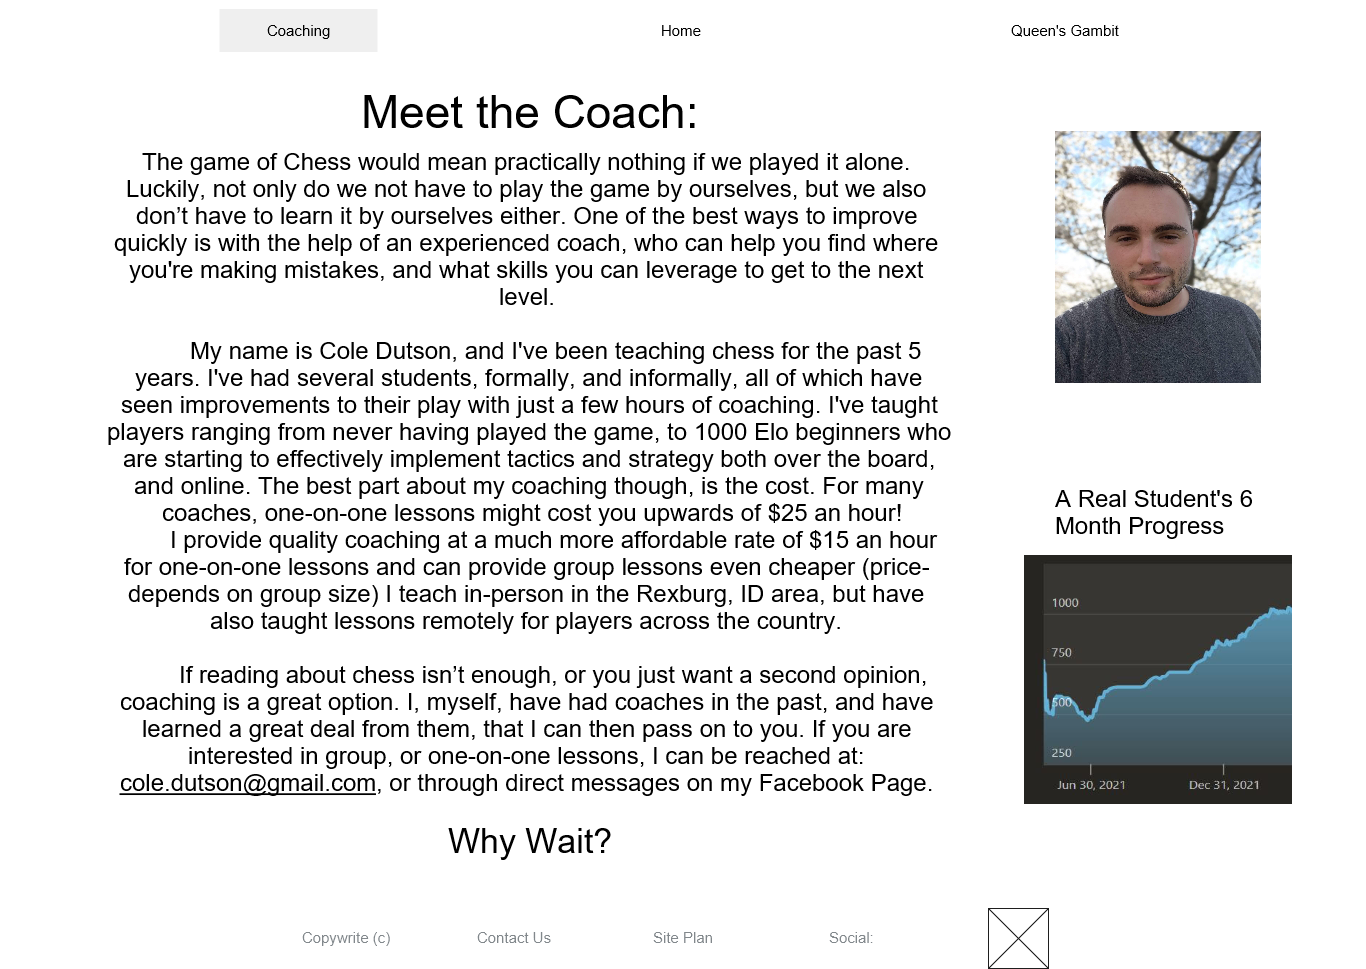
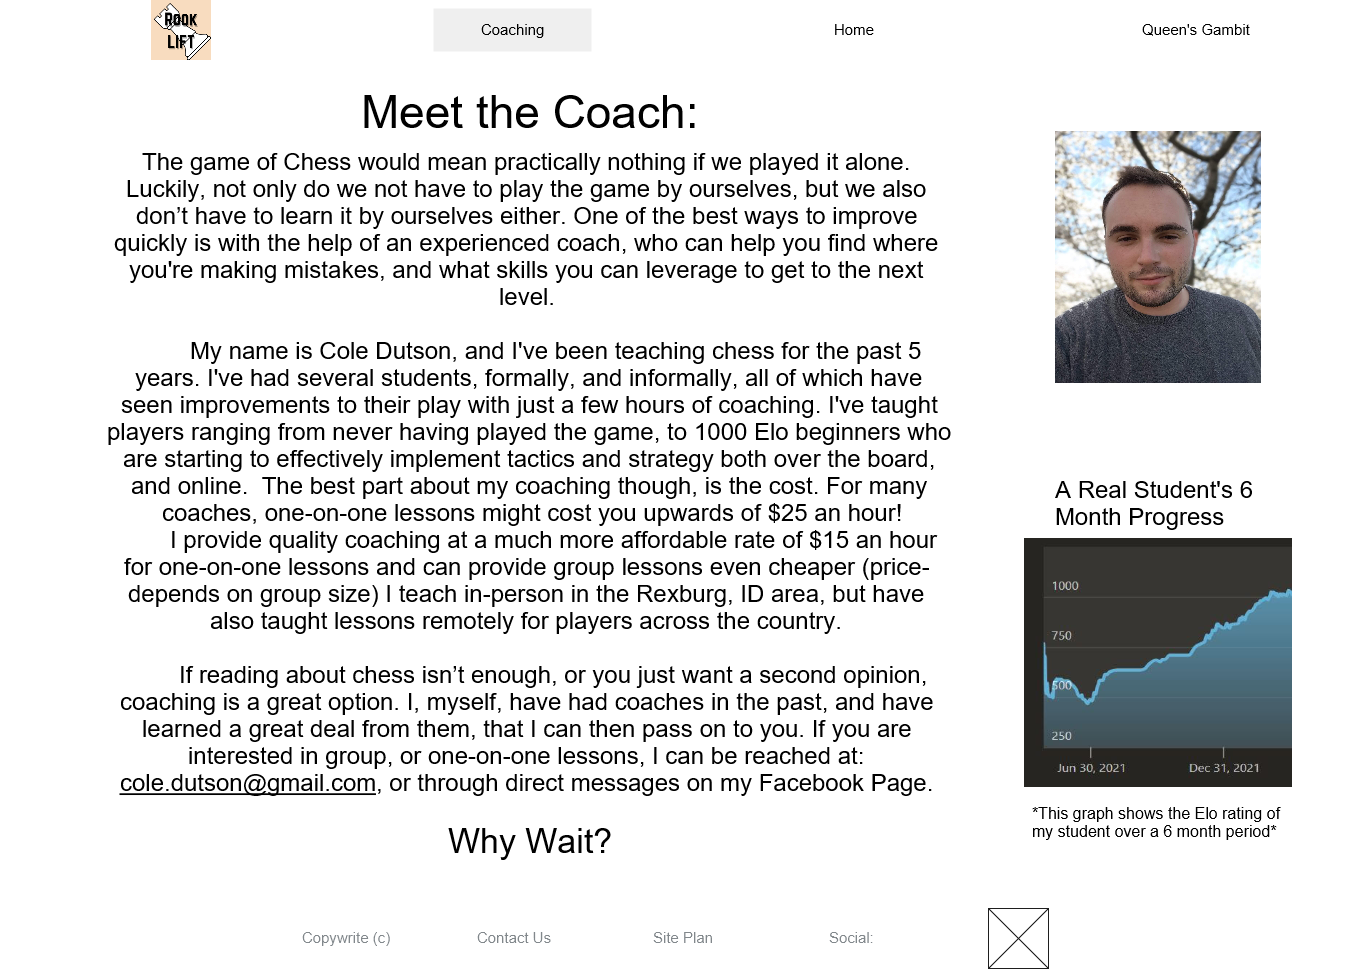
updated footer, header, and wireframe

diff --git a/rooklift/styles/styles.css b/rooklift/styles/styles.css
@@ -189,59 +189,73 @@ main{
     font-size: .75em;
     margin-top: 50px;
 }
-.navlinks-coaching {
-    grid-column: 1/4;
+.coach-logo .logo{
+    height: 60px;
+    width: 60px;
     grid-row: 1/2;
+    margin-top: 5px;
+}
+.navlinks-coaching {
     z-index: 0;
     width: 100%;
     display: grid;
-    grid-template-columns: 1fr 1fr 1fr;
+    grid-template-columns: 1fr 1fr 1fr 1fr;
     background-color: #ffffffb1;
     opacity: .75;
     color: #1d162c;
-
 }
 .navlinks-coaching a:nth-of-type(1){
-    grid-column: 1/2;
+    grid-column: 2/3;
+    grid-row: 1/2;
     margin: 20px 20px;
 }
 .navlinks-coaching a:nth-of-type(2){
-    grid-column: 2/3;
+    grid-column: 3/4;
+    grid-row: 1/2;
     margin: 20px 20px;
     color: black;
 }
 .navlinks-coaching a:nth-of-type(3){
-    grid-column: 3/4;
+    grid-column: 4/5;
+    grid-row: 1/2;
     margin: 20px 20px;
 }
  /*CSS for Page 3 (Queen's Gambit*/
 .qg-main{
     text-align: center;
 }
+
 .navlinks-qg {
-    grid-column: 1/4;
-    grid-row: 1/2;
     z-index: 0;
     width: 100%;
     display: grid;
-    grid-template-columns: 1fr 1fr 1fr;
+    grid-template-columns: 1fr 1fr 1fr 1fr;
     background-color: #ffffffb1;
     opacity: .75;
     color: #1d162c;
-
+}
+.qg-logo .logo{
+    height: 60px;
+    width: 60px;
+    grid-row: 1/2;
+    margin-top: 5px;
 }
 .navlinks-qg a:nth-of-type(1){
-    grid-column: 1/2;
+    grid-column: 2/3;
+    grid-row: 1/2;
     margin: 20px 20px;
 }
 .navlinks-qg a:nth-of-type(2){
-    grid-column: 2/3;
+    grid-column: 3/4;
+    grid-row: 1/2;
     margin: 20px 20px;
 }
 .navlinks-qg a:nth-of-type(3){
-    grid-column: 3/4;
+    grid-column: 4/5;
+    grid-row: 1/2;
     margin: 20px 20px;
     color: black;
+    text-wrap: nowrap;
 }
 .lesson-box{
     display: grid;

diff --git a/rooklift/coaching.html b/rooklift/coaching.html
@@ -10,9 +10,13 @@
 <body>
     <header class="headline">
         <nav class="navlinks-coaching">
+            <a class="coach-logo" href="index.html" target="_self">
+                <img class="logo" src="images/rooklift.png" alt="Rook Lift Logo">
+            </a>
             <a href="index.html" target="_self">Home</a>
             <a href="coaching.html" target="_self">Coaching</a>
             <a href="queensgambit.html" target="_self">Queen's Gambit</a>
+         
         </nav>
     </header>
     <main>

diff --git a/rooklift/queensgambit.html b/rooklift/queensgambit.html
@@ -13,6 +13,9 @@
             <a href="index.html" target="_self">Home</a>
             <a href="coaching.html" target="_self">Coaching</a>
             <a href="queensgambit.html" target="_self">Queen's Gambit</a>
+            <a class="qg-logo" href="index.html" target="_self">
+                <img class="logo" src="images/rooklift.png" alt="Rook Lift Logo">
+            </a>
         </nav>
     </header>
     <main class="qg-main">
